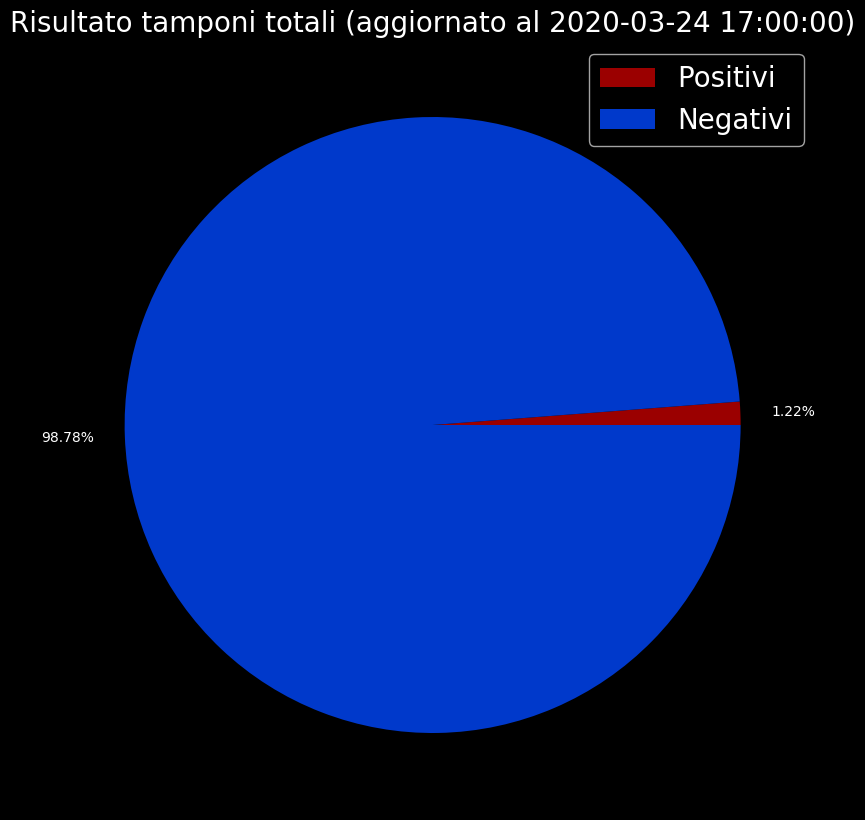
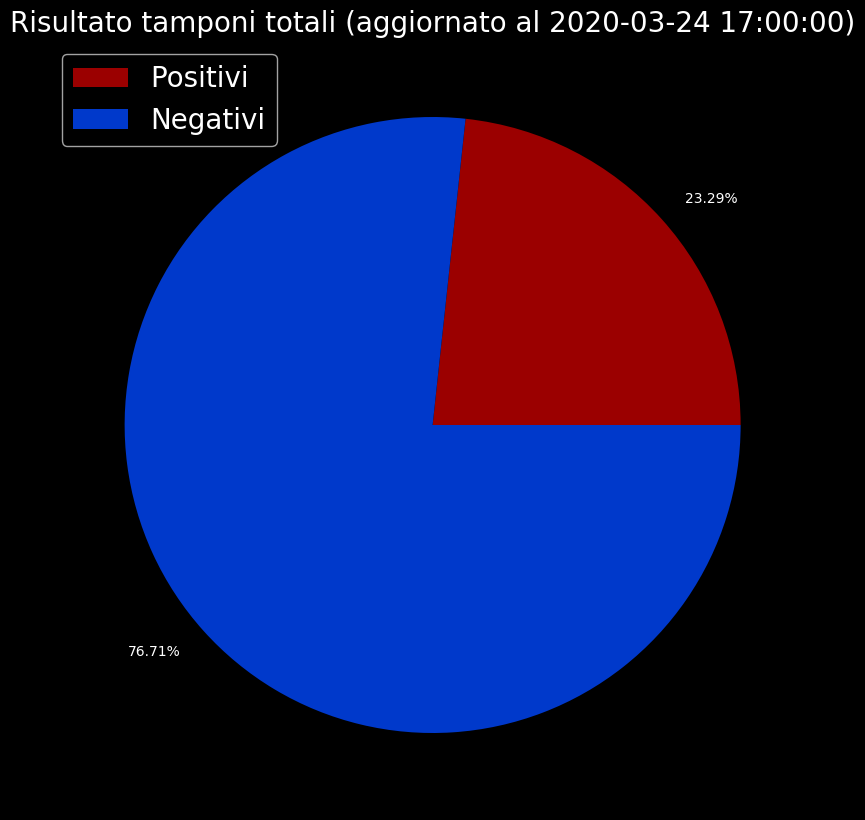
Changed new cases count system

diff --git a/covid19graphs/src/RatioTestCases.py b/covid19graphs/src/RatioTestCases.py
@@ -30,12 +30,12 @@ def main():
     today, yesterday = lasttwodays[1], lasttwodays[0]
 
     tamponi = int(today[11])
-    totalecasiposabs = int(today[7])
+    totalecasiposabs = int(today[10])
     totalecasinegabs = tamponi - totalecasiposabs
 
     #Creo aerogramma non cumulativo
     tamponitoday = tamponi - int(yesterday[11])
-    casipositivitoday = totalecasiposabs - int(yesterday[10])
+    casipositivitoday = int(today[7])
     casinegativitoday = tamponitoday - casipositivitoday
 
     # Frequenze relative positivi e negativi cumulativi
